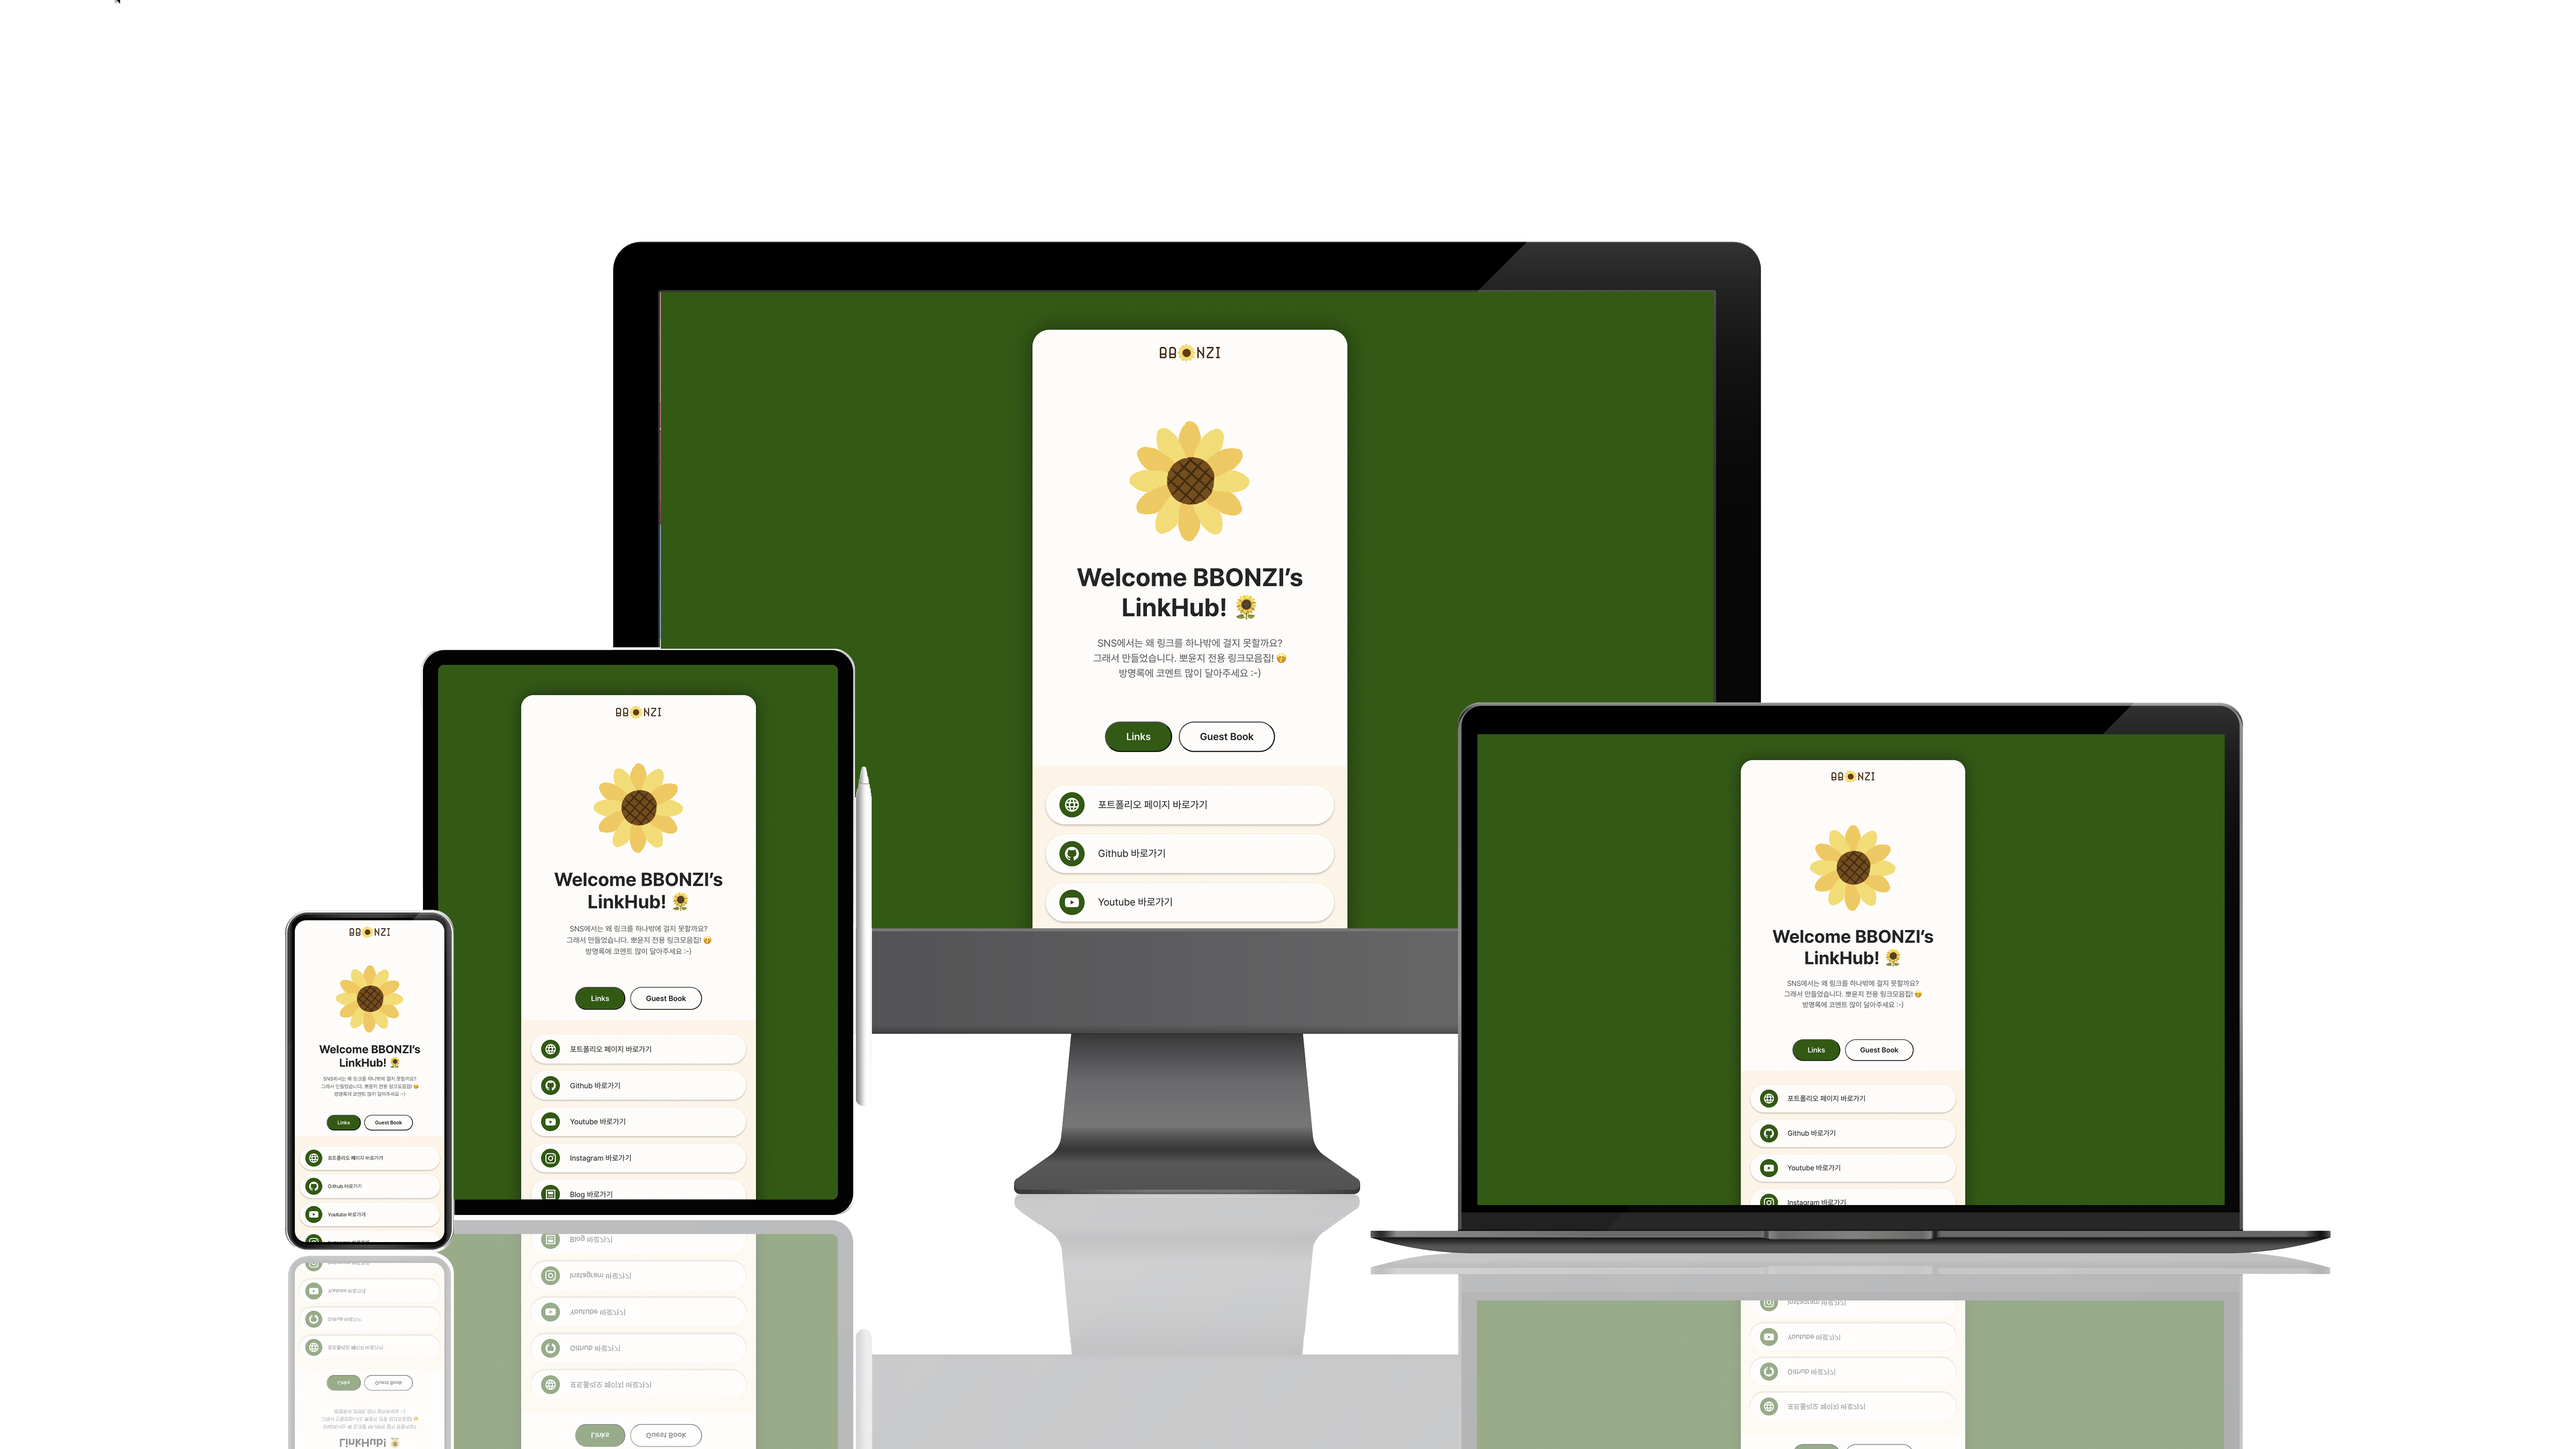
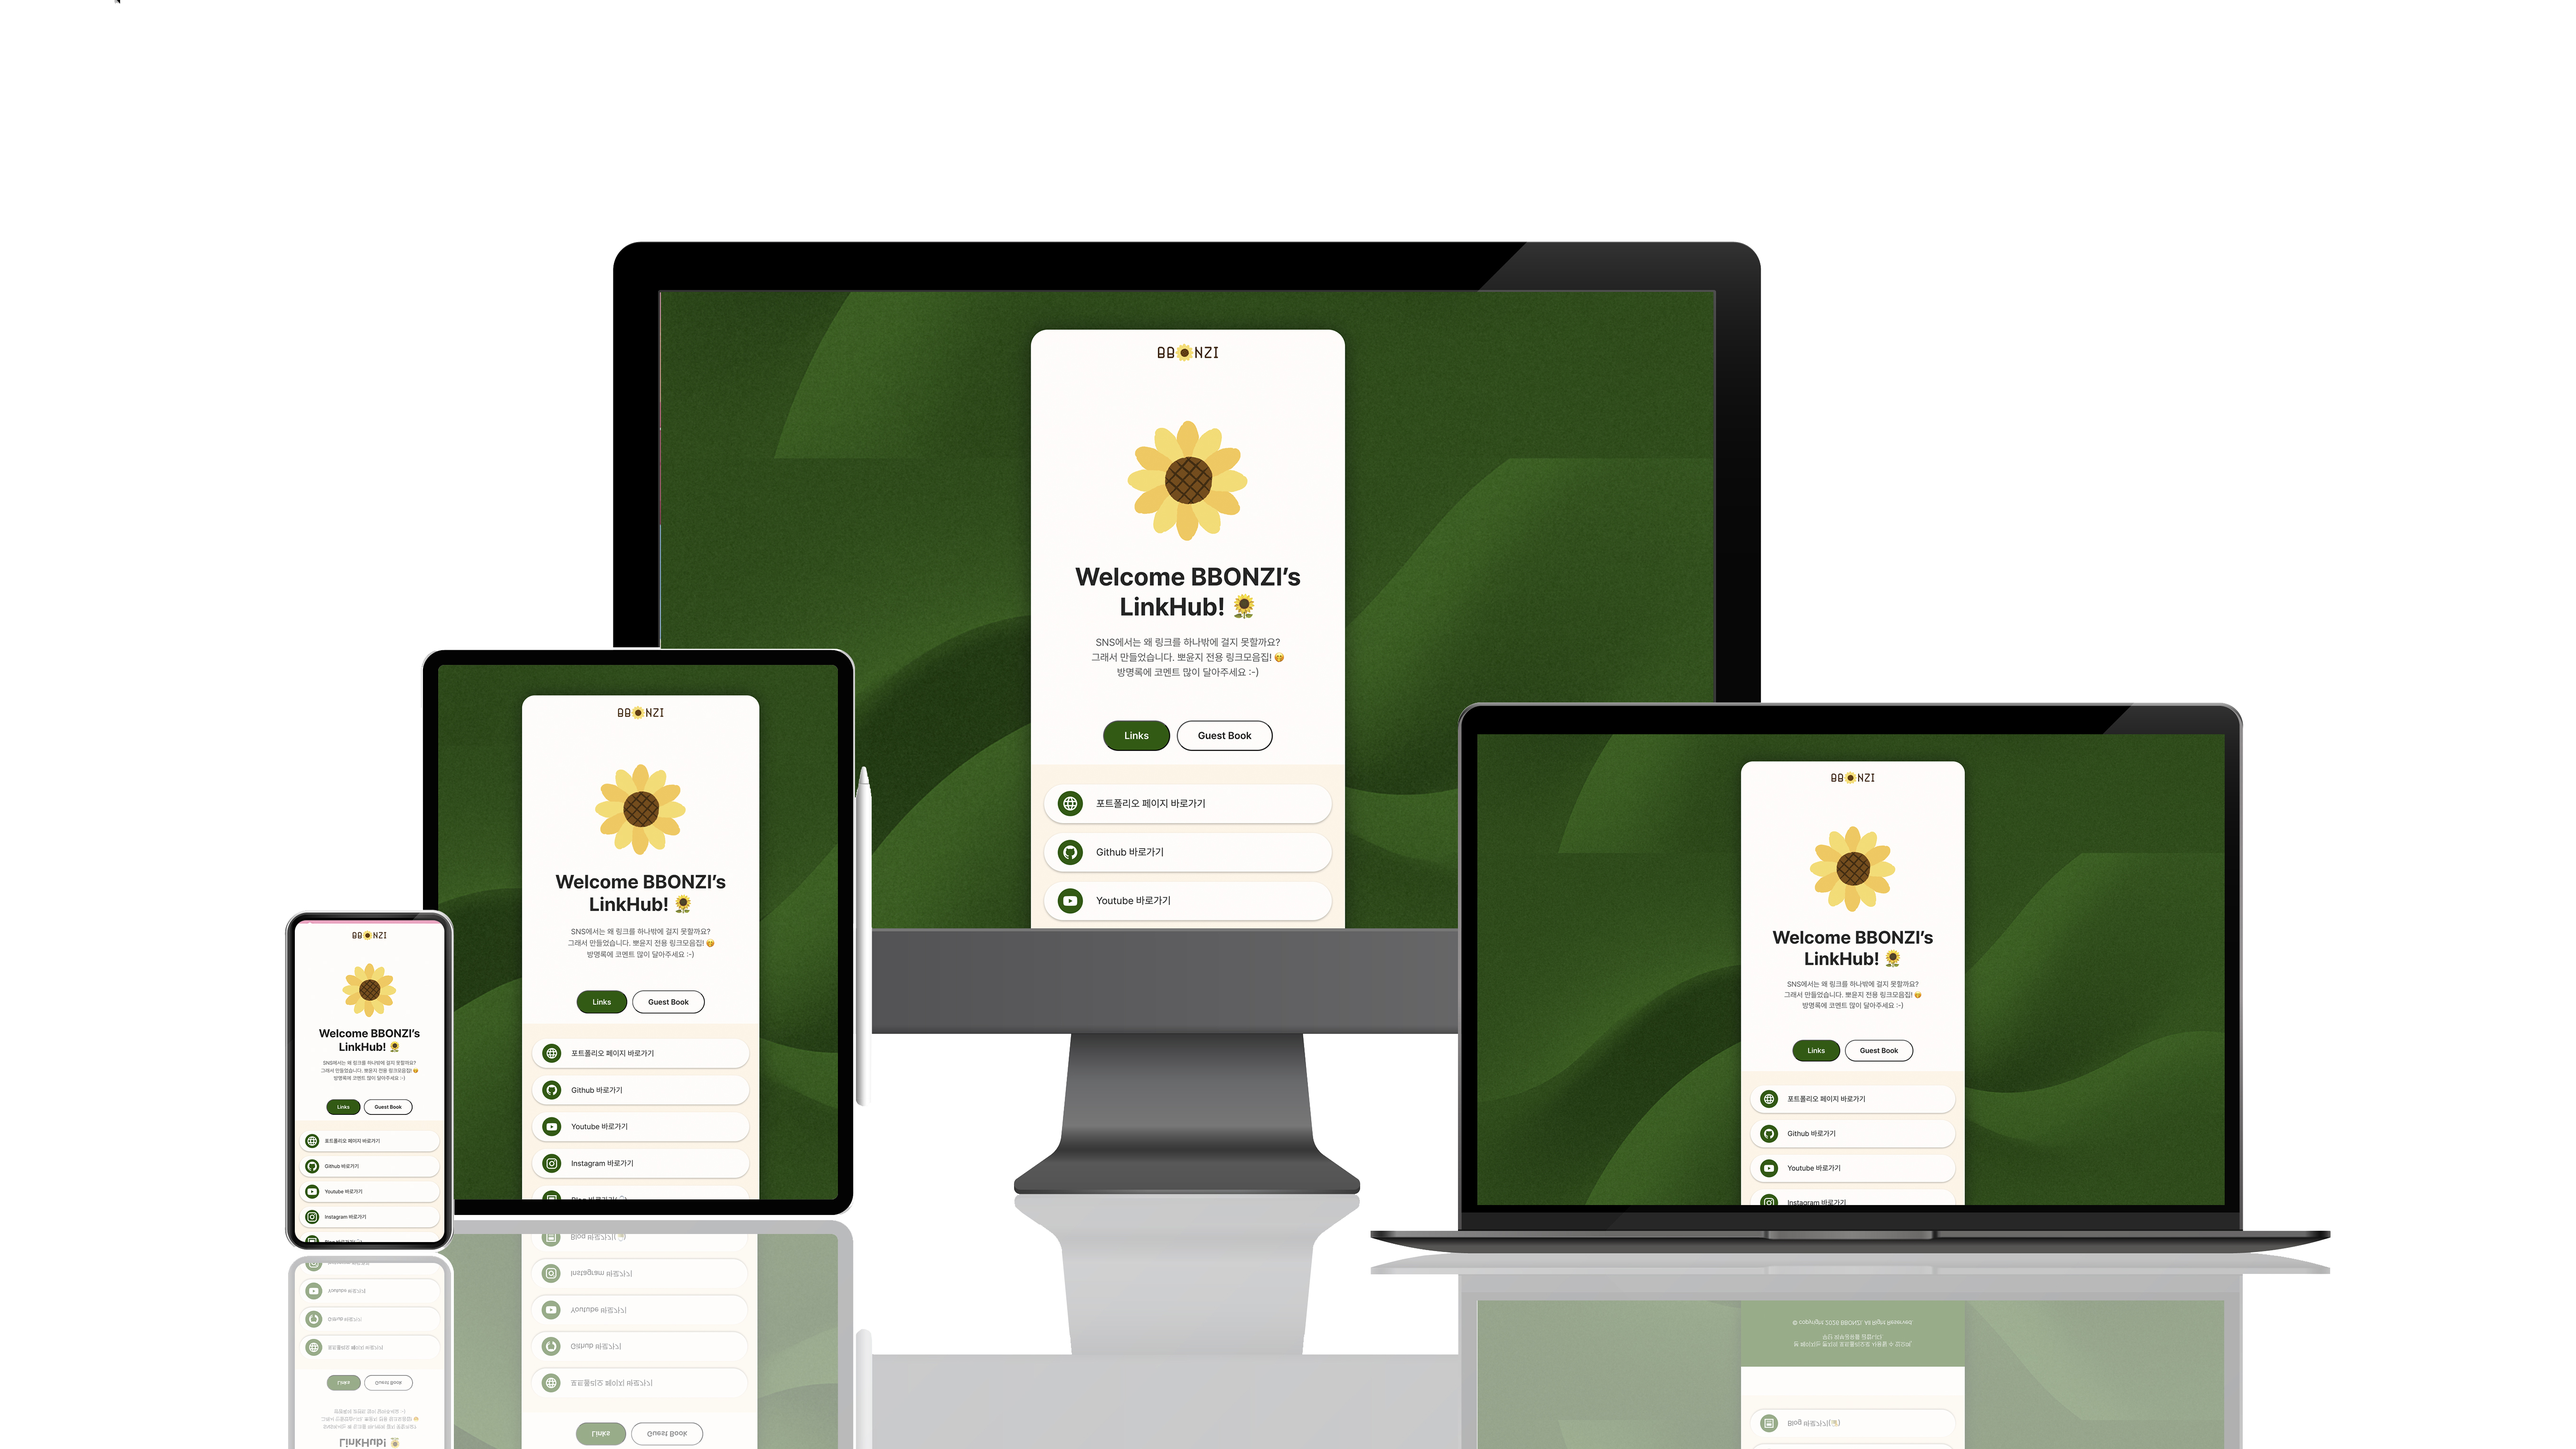
modify works card

diff --git a/work.html b/work.html
@@ -12,24 +12,26 @@
     <!-- 네비게이션 인클루드 -->
     <div w3-include-html="include/header.html"></div>
 
-    <section class="section work">
-        <h2 class="work__title text-title">Works</h2>
-        <p class="work__text text-base">사진 클릭 시 확대됩니다.</p>
+    <section class="section work work-section">
+        <div class="work_text">
+            <h2 class="work__title text-title">Works</h2>
+            <p class="work__text text-base">사진 클릭 시 확대됩니다.</p>
 
-        <!-- 탭 버튼 -->
-        <div class="work__tabs">
-            <button class="work__tab-button is-active" data-tab="coding">
-                Web Coding
-            </button>
-            <button class="work__tab-button" data-tab="content">
-                Web Content
-            </button>
-            <button class="work__tab-button" data-tab="logo">
-                Logo Design
-            </button>
-            <button class="work__tab-button" data-tab="video">
-                Video Content
-            </button>
+            <!-- 탭 버튼 -->
+            <div class="work__tabs">
+                <button class="work__tab-button is-active" data-tab="coding">
+                    Web Coding
+                </button>
+                <button class="work__tab-button" data-tab="content">
+                    Web Content
+                </button>
+                <button class="work__tab-button" data-tab="logo">
+                    Logo Design
+                </button>
+                <button class="work__tab-button" data-tab="video">
+                    Video Content
+                </button>
+            </div>
         </div>
 
         <!-- 카드 출력 영역 -->

diff --git a/css/style.css b/css/style.css
@@ -1164,6 +1164,12 @@ body.is-locked {
     Responsive
 ============================ */
 @media (max-width: 1024px) {
+  .work-section {
+    padding: 0 !important;
+  }
+  .work_text {
+    padding: 0 5%;
+  }
   .work__card {
     grid-template-columns: 1fr;
   }

diff --git a/css/pages/_work.scss b/css/pages/_work.scss
@@ -250,6 +250,14 @@
 
 @media (max-width: 1024px) {
 
+    .work-section {
+        padding: 0 !important;
+    }
+
+    .work_text {
+        padding: 0 5%;
+    }
+
     .work__card {
         // height: 560px;
         grid-template-columns: 1fr;
